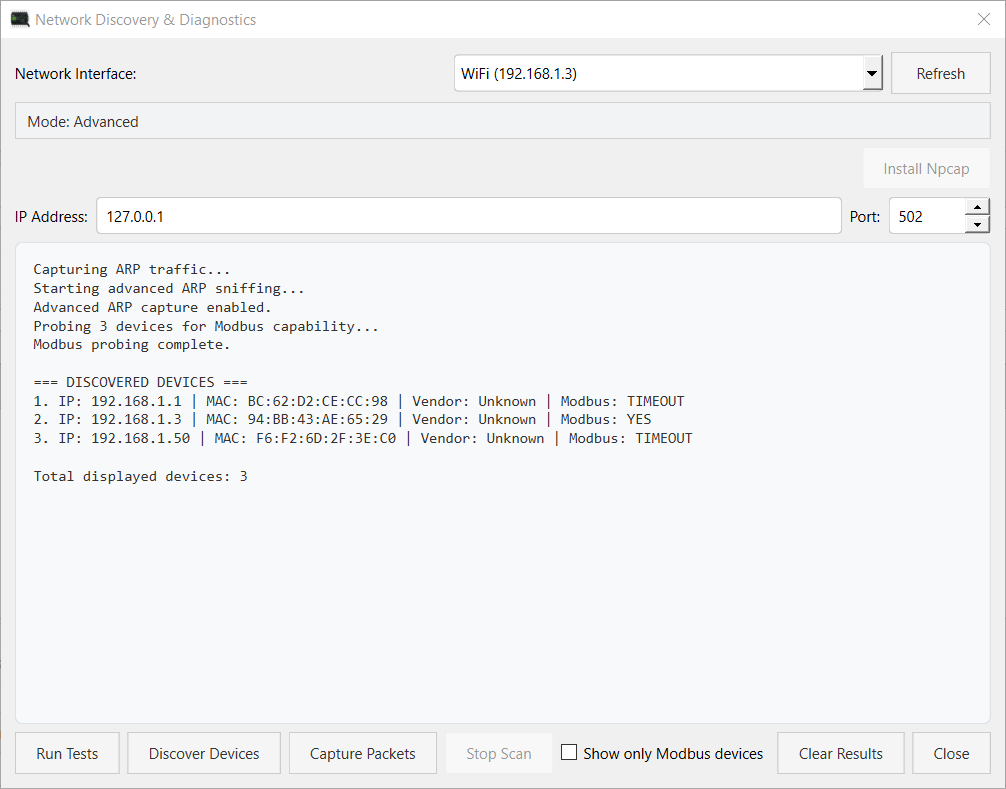
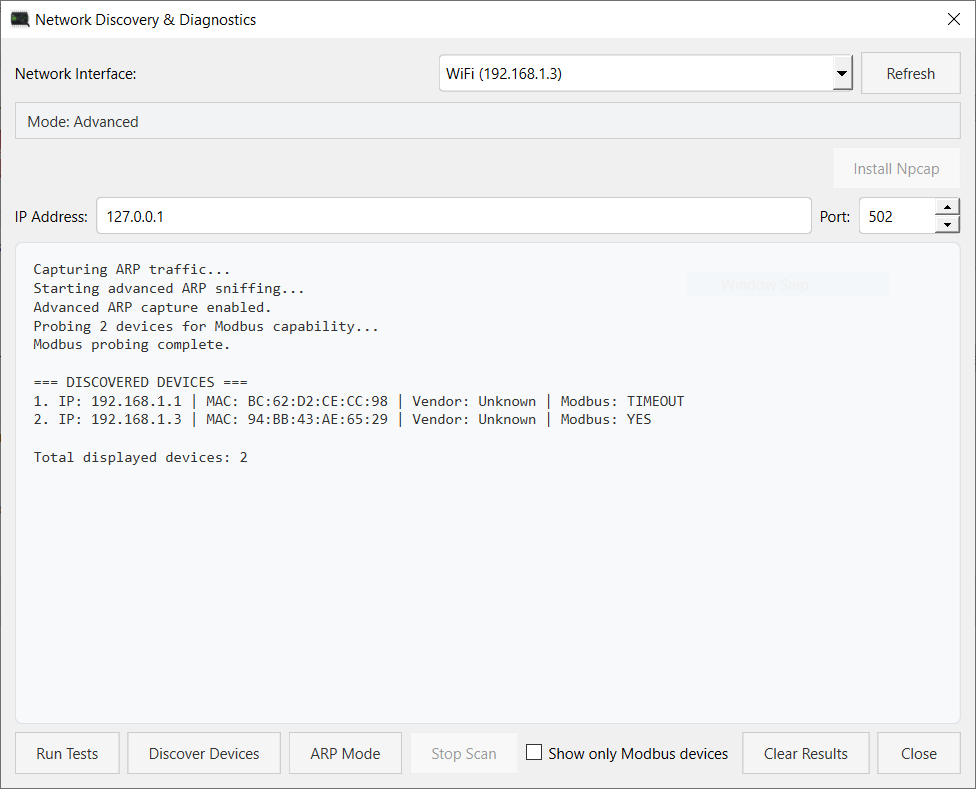
network

diff --git a/gui/network/network_diagnostics.py b/gui/network/network_diagnostics.py
@@ -1378,23 +1378,23 @@ class NetworkDiagnosticsDialog:
             # Stop packet capture
             if self.capturer and self.capturer.isRunning():
                 self.capturer.stop()
-                self.capturer.wait()
+                self.capturer.wait(1000)  # Wait with timeout
             
             # Stop device scanner
             if self.scanner and self.scanner.isRunning():
                 self.scanner.stop()
-                self.scanner.wait()
+                self.scanner.wait(1000)  # Wait with timeout
             
             # Stop Modbus prober
             if self.modbus_prober and self.modbus_prober.isRunning():
                 self.modbus_prober.stop()
-                self.modbus_prober.wait()
+                self.modbus_prober.wait(1000)  # Wait with timeout
             
             # Stop diagnostics worker
             if self.worker and self.worker.isRunning():
                 self.worker.should_stop = True
                 self.worker.quit()
-                self.worker.wait()
+                self.worker.wait(1000)  # Wait with timeout
             
             # Disable Modbus filter
             self.disable_modbus_filter()
@@ -1406,7 +1406,7 @@ class NetworkDiagnosticsDialog:
             
             # Re-enable buttons
             self.capture_btn.setEnabled(True)
-            self.capture_btn.setText("Capture Packets")
+            self.capture_btn.setText("ARP Mode")
             self.test_btn.setEnabled(True)
             self.test_btn.setText("Run Tests")
             self.discover_btn.setEnabled(True)
@@ -1865,7 +1865,7 @@ class NetworkDiagnosticsDialog:
         self.progress_bar.setVisible(False)
         self.progress_bar.setRange(0, 100)  # Reset to default range
         self.capture_btn.setEnabled(True)
-        self.capture_btn.setText("Capture Packets")
+        self.capture_btn.setText("ARP Mode")
         self.test_btn.setEnabled(True)
         self.discover_btn.setEnabled(True)
         self.stop_btn.setEnabled(False)  # Disable stop button when complete